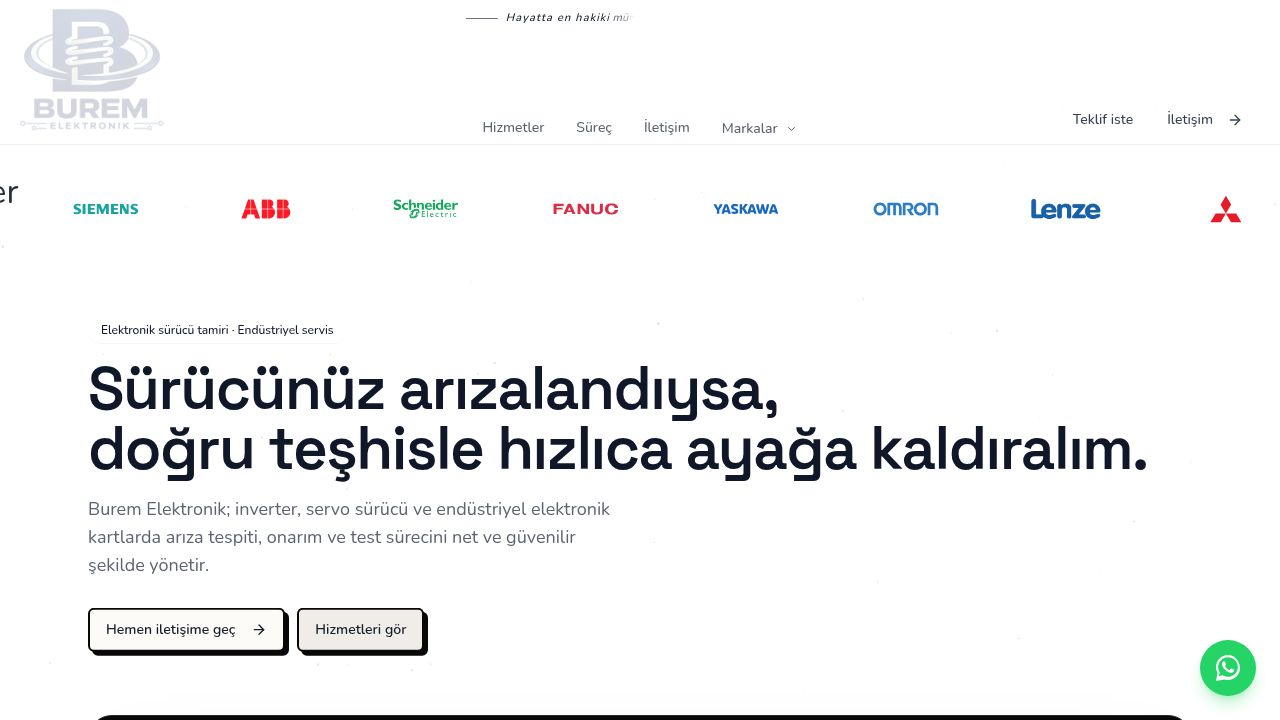
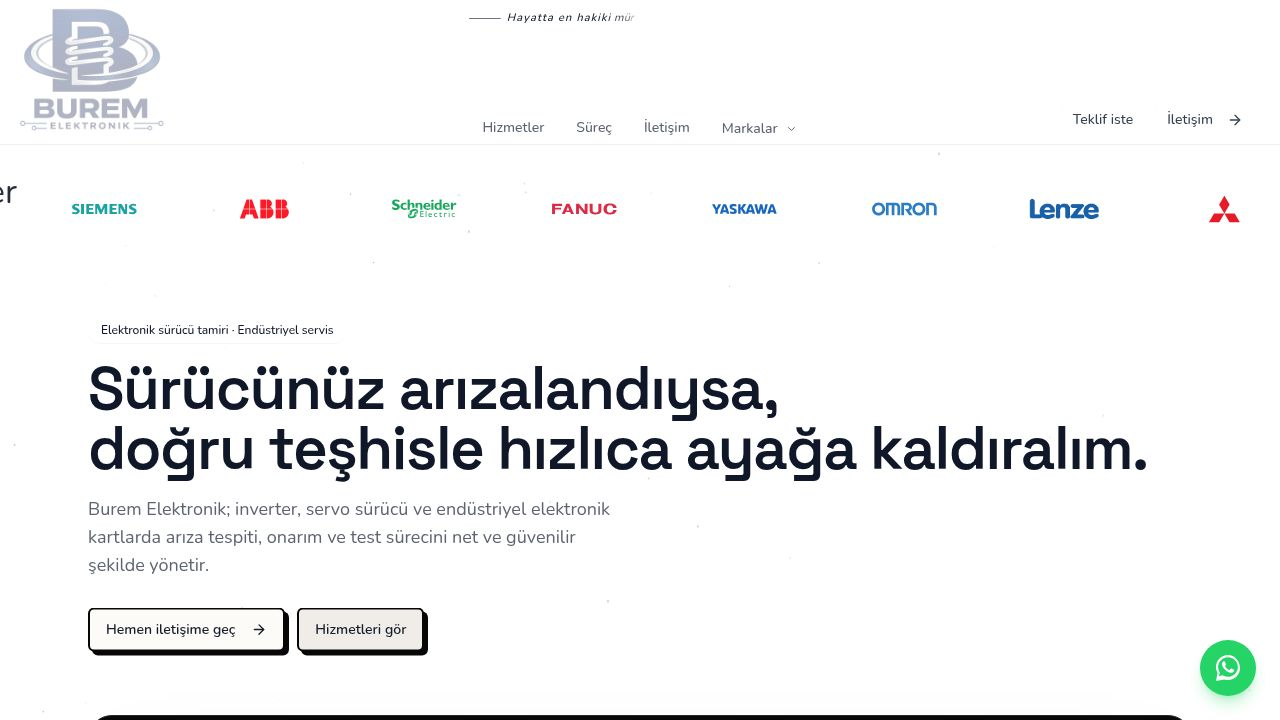
Make Atatürk text and silhouette visible on mobile devices
Update home page component to display Atatürk text and silhouette on mobile, adjusting font sizes and element dimensions for smaller screens.

Replit-Commit-Author: Agent
Replit-Commit-Session-Id: a17311f1-5781-4520-a4d6-fba375434d4a
Replit-Commit-Checkpoint-Type: full_checkpoint
Replit-Commit-Event-Id: d849f63d-0fa7-41a9-9b80-2665087f917c
Replit-Commit-Screenshot-Url: https://storage.googleapis.com/screenshot-production-us-central1/220fef12-6025-4ca4-92d5-d8870d5c7179/a17311f1-5781-4520-a4d6-fba375434d4a/NViTs0K
Replit-Helium-Checkpoint-Created: true

diff --git a/client/src/pages/home.tsx b/client/src/pages/home.tsx
@@ -1077,18 +1077,18 @@ export default function HomePage() {
       <header className="relative sticky top-0 z-40 border-b border-border/40 bg-background/80 backdrop-blur-md">
         {/* Atatürk şeridi — tam ortada üstte, absolute */}
         <div
-          className="hidden lg:flex absolute top-1.5 left-1/2 -translate-x-1/2 items-center gap-2 group cursor-default"
+          className="flex absolute top-1.5 left-1/2 -translate-x-1/2 items-center gap-1.5 group cursor-default"
           style={{ zIndex: 50 }}
         >
           <motion.span
-            className="w-8 h-px bg-foreground/60 flex-shrink-0 block"
+            className="w-5 lg:w-8 h-px bg-foreground/60 flex-shrink-0 block"
             initial={{ scaleX: 0 }}
             animate={{ scaleX: 1 }}
             style={{ transformOrigin: "left" }}
             transition={{ duration: 0.6, delay: 0.3, ease: [0.22, 1, 0.36, 1] }}
           />
           <motion.p
-            className="text-[11px] text-foreground italic tracking-widest font-medium whitespace-nowrap flex"
+            className="text-[9px] lg:text-[11px] text-foreground italic tracking-widest font-medium whitespace-nowrap flex"
             aria-label="Hayatta en hakiki mürşit ilimdir."
           >
             {"Hayatta en hakiki mürşit ilimdir.".split("").map((char, i) => (
@@ -1105,13 +1105,13 @@ export default function HomePage() {
           <motion.img
             src="https://upload.wikimedia.org/wikipedia/commons/4/46/Signature_of_Mustafa_Kemal_Atat%C3%BCrk.svg"
             alt="Mustafa Kemal Atatürk imzası"
-            className="h-6"
+            className="h-4 lg:h-6"
             initial={{ opacity: 0, x: -6 }}
             animate={{ opacity: 1, x: 0 }}
             transition={{ duration: 0.5, delay: 0.4 + 34 * 0.028, ease: [0.22, 1, 0.36, 1] }}
           />
           <motion.span
-            className="w-8 h-px bg-foreground/60 flex-shrink-0 block"
+            className="w-5 lg:w-8 h-px bg-foreground/60 flex-shrink-0 block"
             initial={{ scaleX: 0 }}
             animate={{ scaleX: 1 }}
             style={{ transformOrigin: "left" }}
@@ -1141,7 +1141,7 @@ export default function HomePage() {
             <img
               src="https://www.artepera.com/cdn/shop/files/APT828-Ataturk-Metal-Duvar-Tablosu_1.jpg?v=1751374066&width=1080"
               alt="Atatürk silüeti"
-              className="h-16 w-auto object-contain drop-shadow-md"
+              className="h-10 lg:h-16 w-auto object-contain drop-shadow-md"
               style={{ filter: "grayscale(1) contrast(1.15)" }}
             />
           </motion.div>
